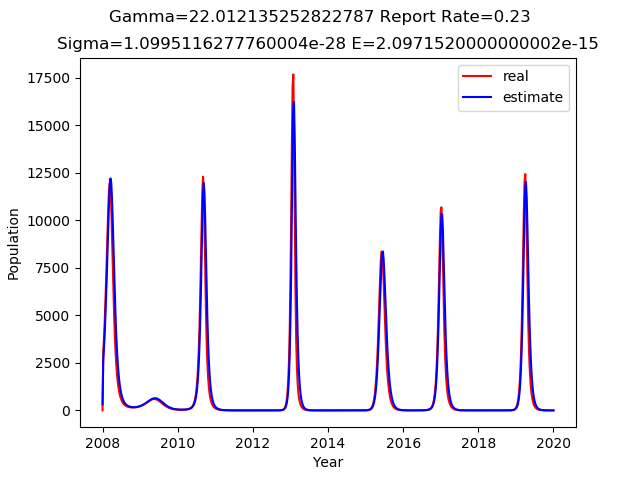
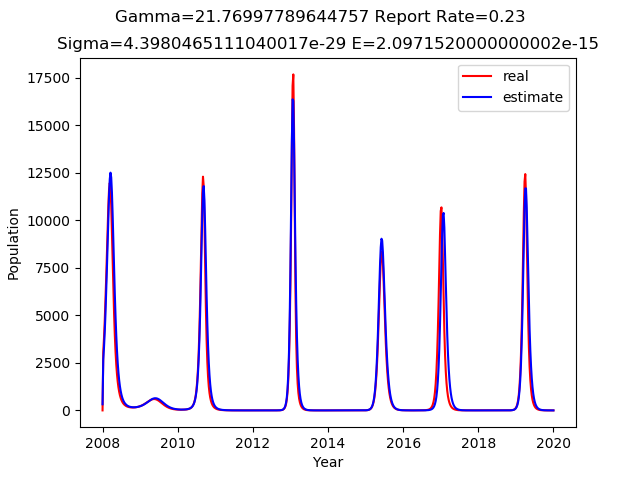
improve the possibility of getting the answer

diff --git a/SIR-MCMC.py b/SIR-MCMC.py
@@ -18,7 +18,7 @@ GAMMA=[]
 global reportRate
 reportRate=0.23
 global sigma
-sigma=5
+sigma=10
 sigma0=sigma
 lastSigma=sigma
 E=1   # 3我之前不能收敛是因为这个调得太小了
@@ -223,6 +223,7 @@ for cnt_step in range(MAX_PACE):
                 lastSigma=sigma
                 sigma = sigma /5  # 2 was set by hand
                 if sigma<1:
+                    lastSigma = sigma
                     sigma = sigma /5
                     # need to estimate again when sigma changed
                 estimate(lastGamma)
